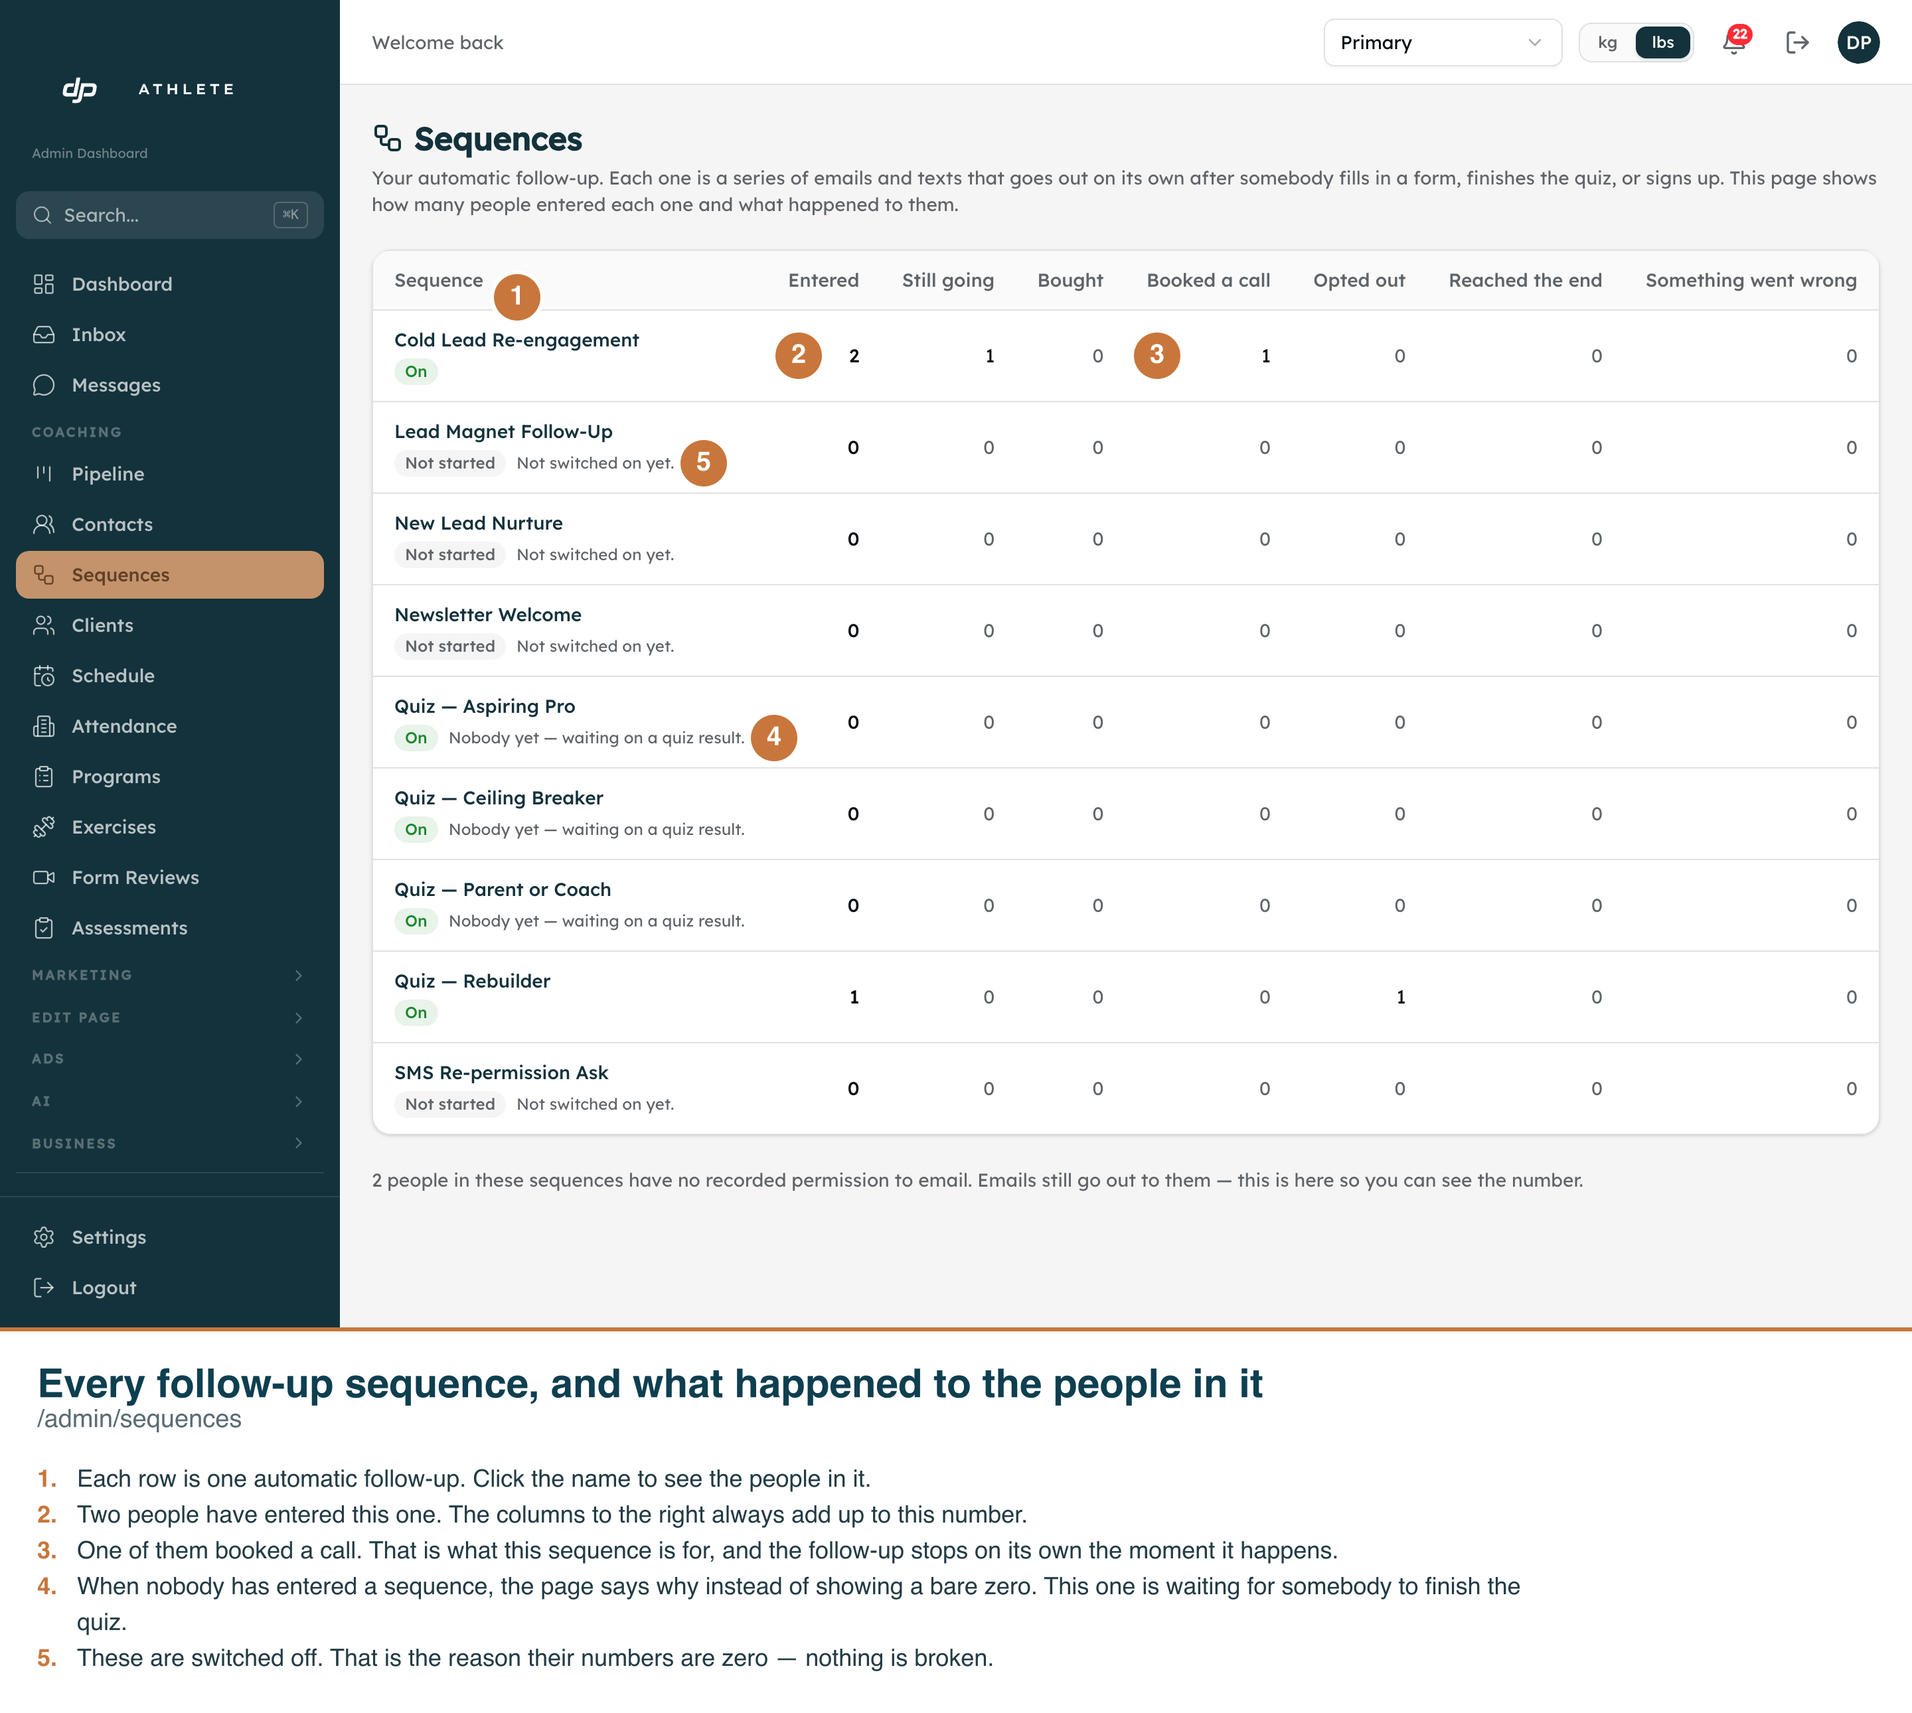
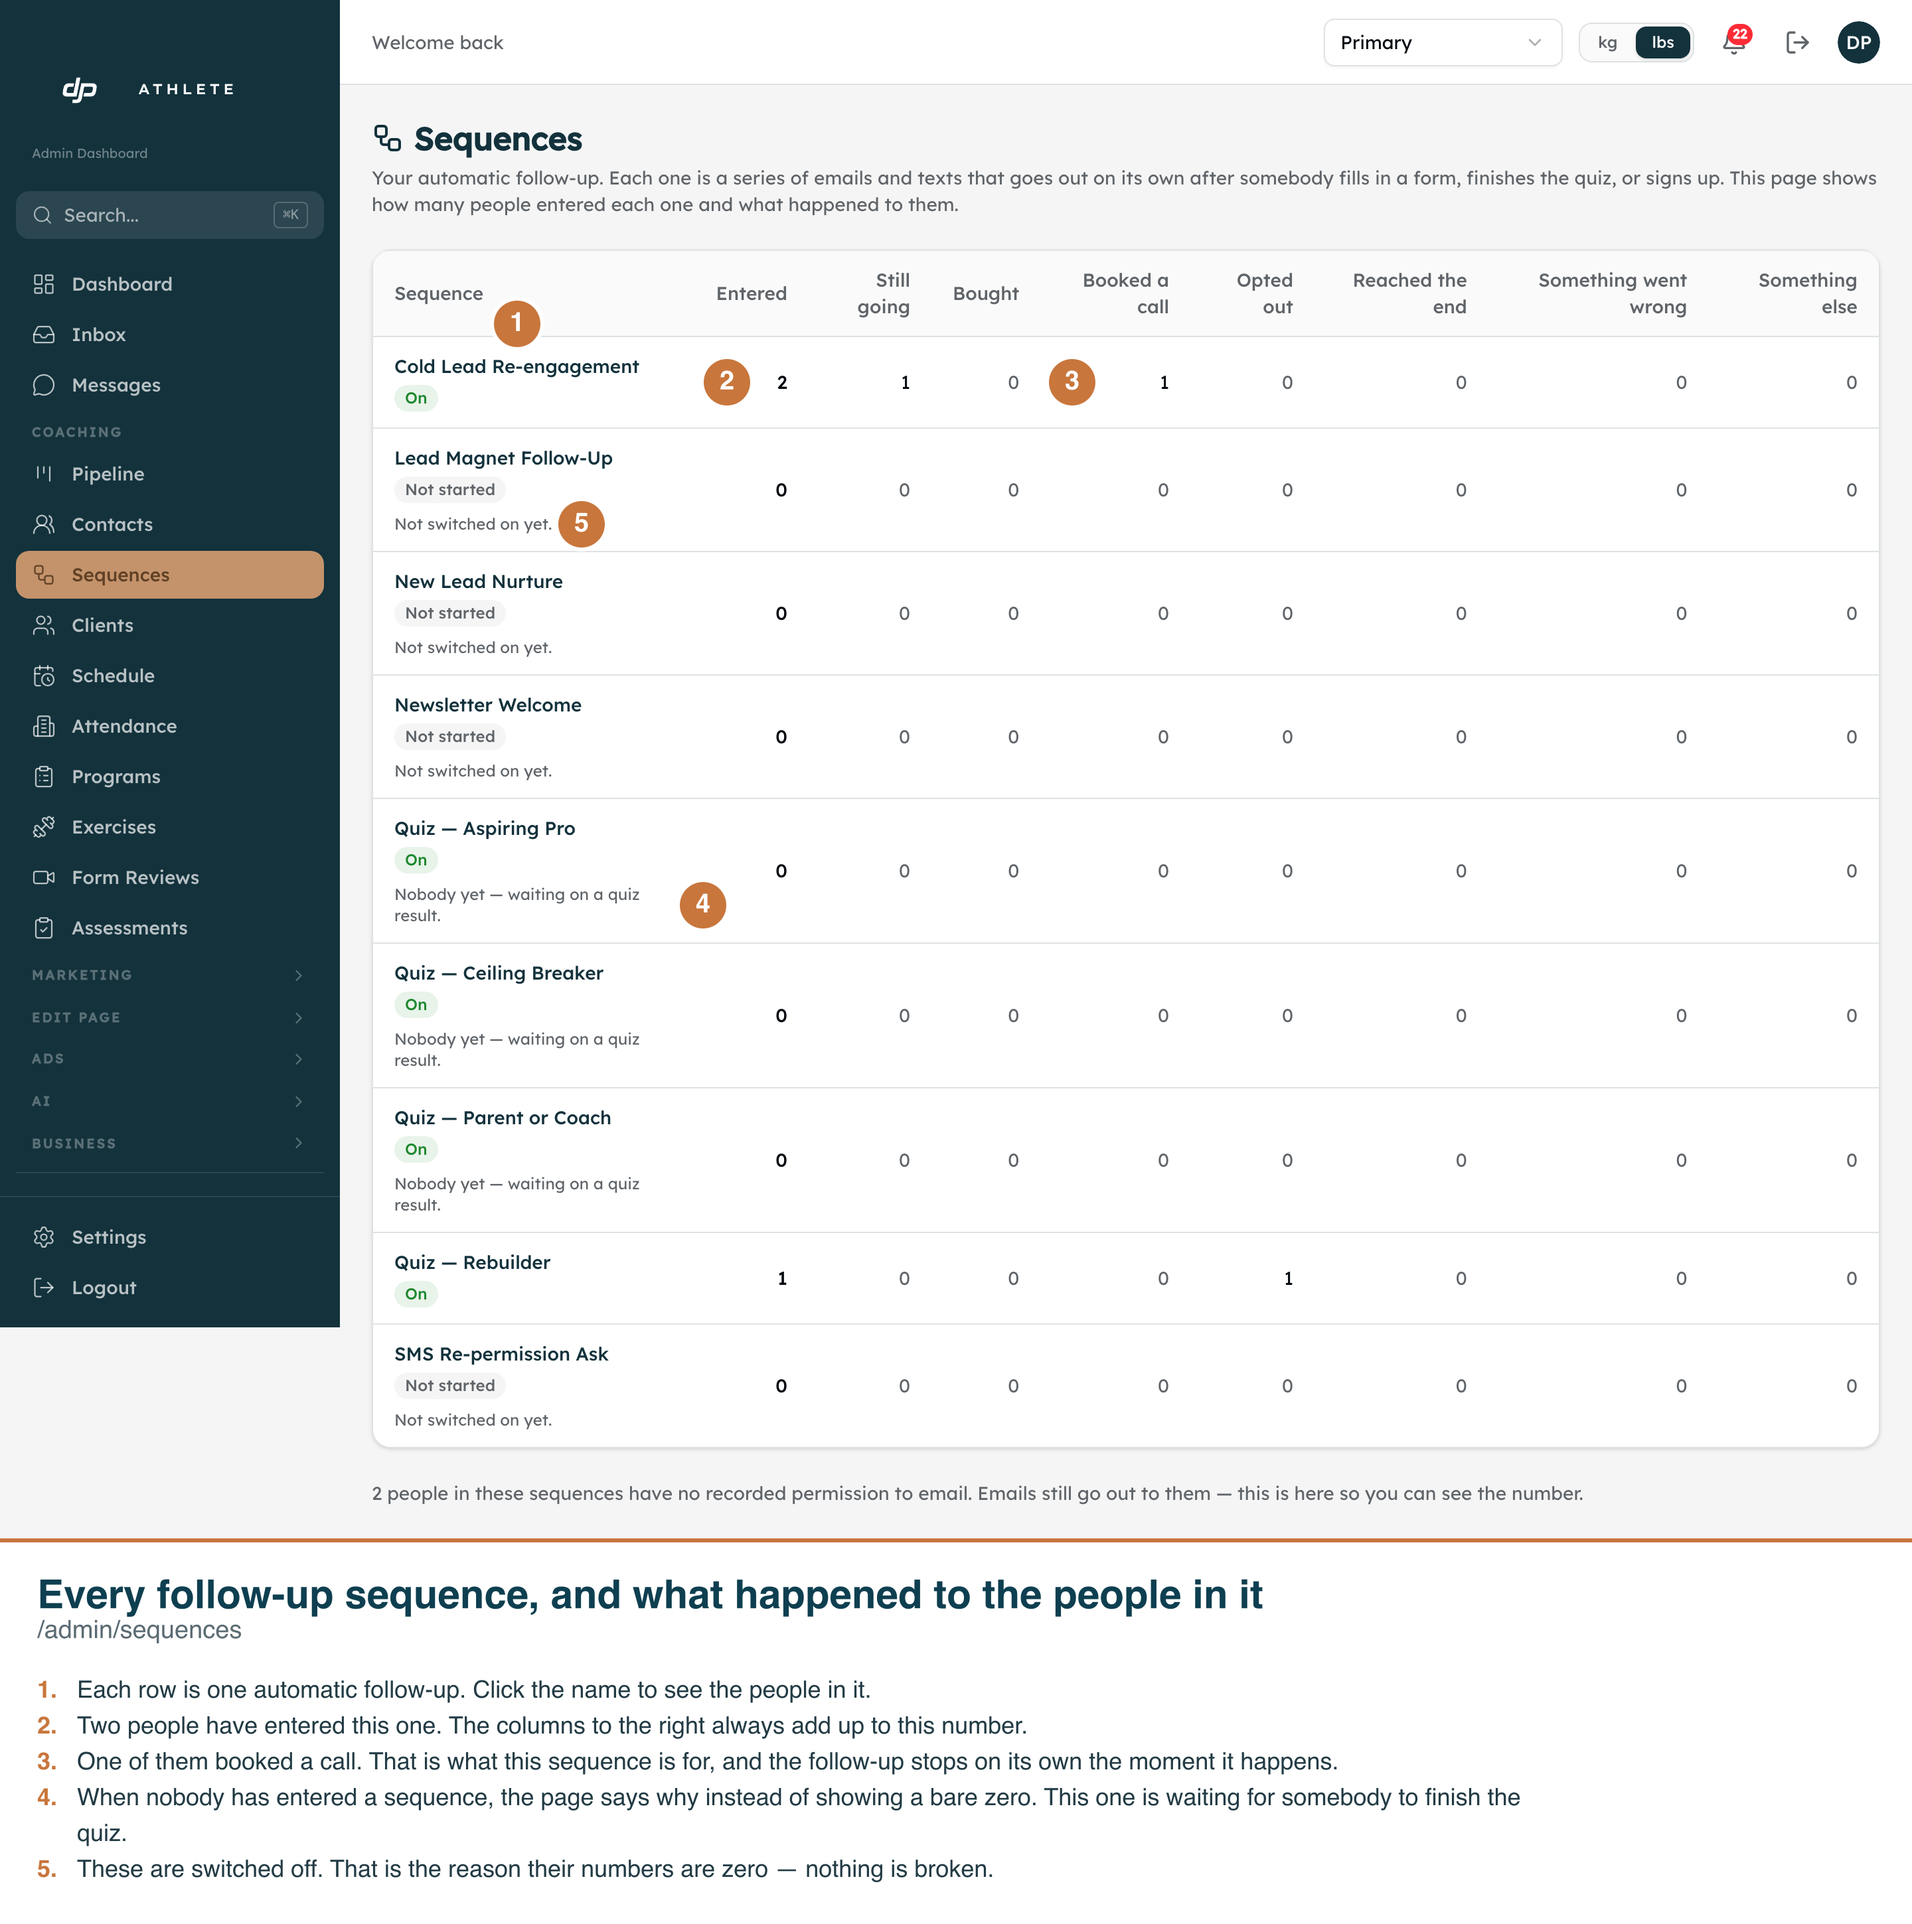
docs(lead-engine): re-shoot the list for the new column, and say what cannot be shown
The list gained a "Something else" column, so shots 01 and 02 were stale the
moment that landed. Re-driven against the real app on the dev clone.

Also records why the failed-run explanation is absent from every shot. It is
the most visible thing on production — sms_repermission is the only sequence
with runs and all 73 of them failed — but the dev clone has none, and the code
can no longer produce one: a configuration fault now DEFERS a run rather than
destroying it, which is precisely the change that prevents a repeat of those
73. The state is unreachable on a clone without writing a row by hand.

diff --git a/screenshots/sequence-reporting/README.md b/screenshots/sequence-reporting/README.md
@@ -43,3 +43,27 @@ cookie, and on this dev clone that is the seeded test business "Northcrest Barbe
 setting that cookie to "Primary"; the capture script asserts nine rows are on screen
 before taking shot 01, and fails loudly rather than saving a screenshot of a wall of
 zeros if the cookie didn't take.
+
+## What these shots deliberately do NOT show, and why
+
+**The failed-run explanation is not pictured, and it cannot honestly be.**
+
+The list and the detail page both explain a run that never sent — the list with a
+sentence beside the sequence name, the detail with the reason recorded against
+that person. On production this is the most visible thing on the whole screen:
+`sms_repermission` is the only sequence with any runs at all, and all 73 of them
+failed in the 2026-08-31 domain fault.
+
+It is absent here because **the dev clone has no failed runs, and the real code
+path can no longer produce one.** A configuration fault — an unverified sending
+domain, an empty sender name — used to destroy the run. It now *defers* instead,
+which is exactly the change that stops a repeat of those 73. So the state that
+produced them is unreachable on a clone without writing a row by hand, and
+writing rows by hand is what this whole file exists to avoid.
+
+The rendering is covered by unit tests instead, and the copy is reviewed. If you
+want to see it for real, `/admin/sequences` on production will show it the moment
+you open it.
+
+**Two outcome columns are also zero here** — Bought needs a real Stripe checkout,
+and Something went wrong is the failed state described above.
